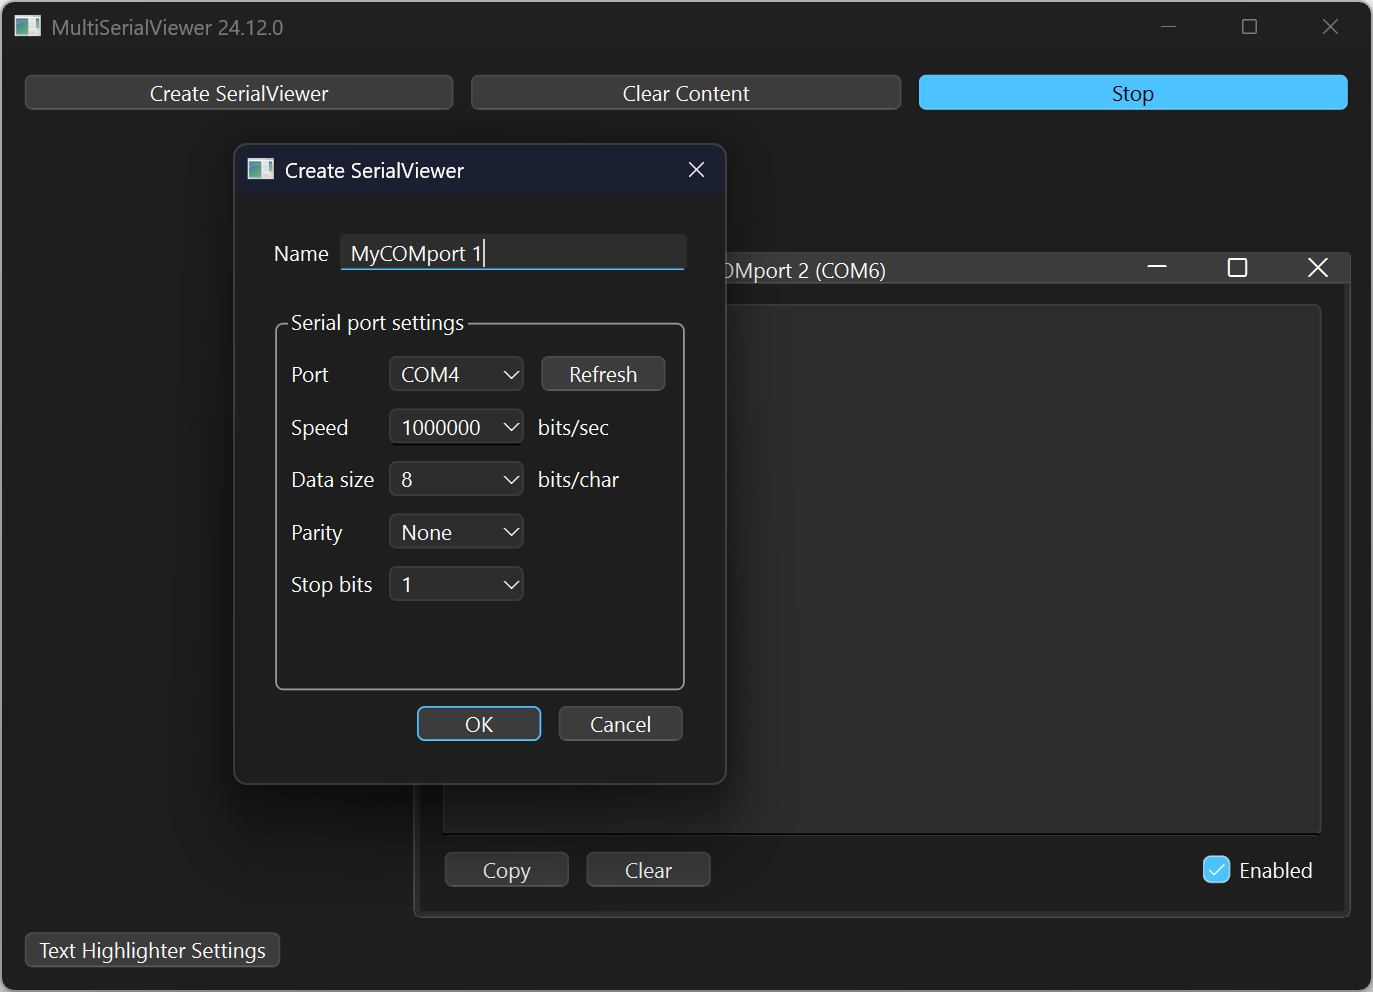
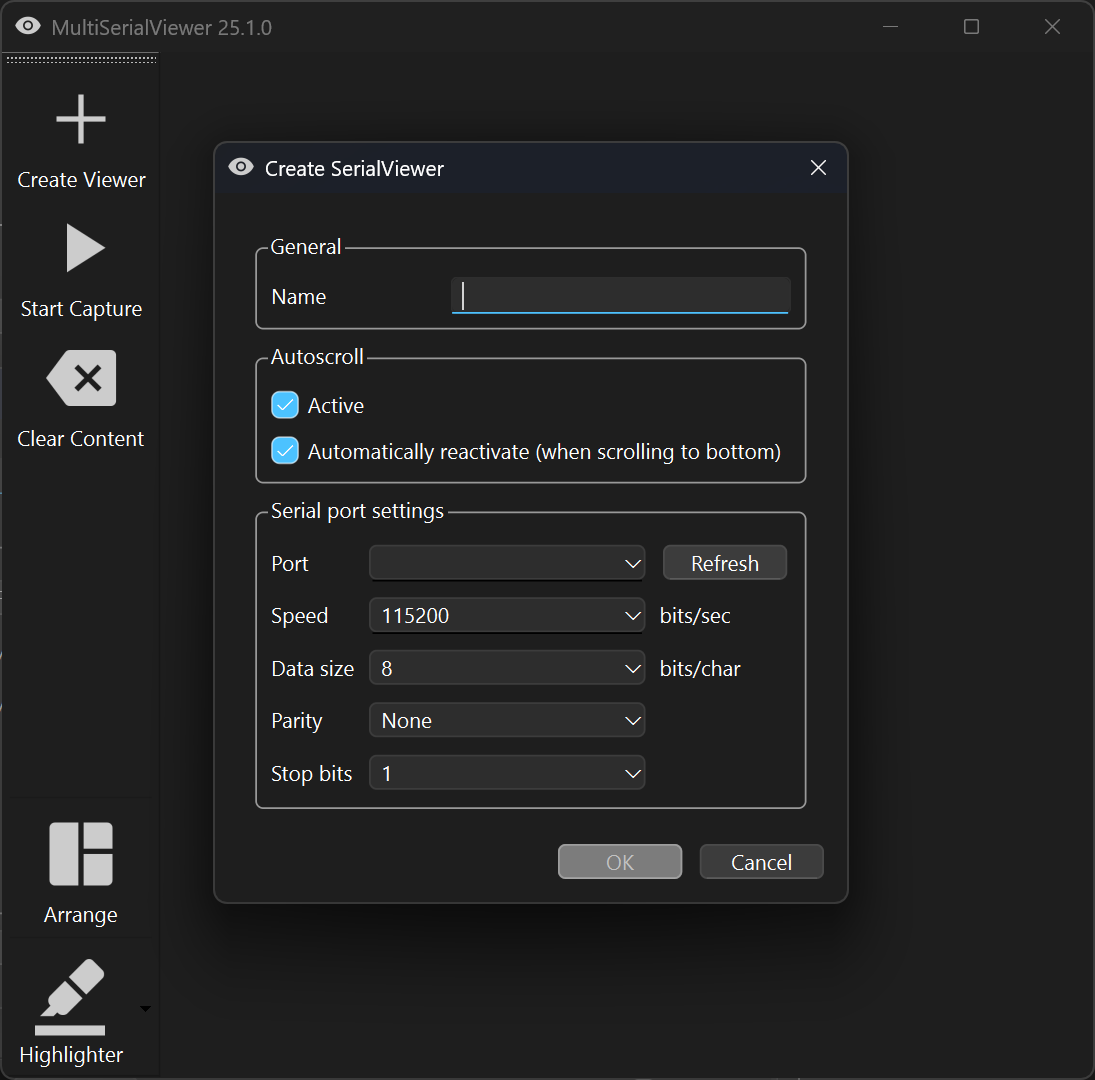
updated screenshots and readme's

diff --git a/README.md b/README.md
@@ -9,9 +9,13 @@ Shows multiple serial text streams in a single window with individual highlighti
 Imagine you have several embedded devices / MCUs all printing out debug information over a UART. You don't want to use a terminal program (e.g. HTerm) for every COM port manually. You want to easily open all COM ports at once and clear all received data with a single click. Would be nice, if important text messages could be highlighted with different colors, so you don't have to read everything your devices are telling you.
 
 ## Installation
-You can install this tool using the package installer for Python (pip). See [multiserialviewer](https://pypi.org/project/multiserialviewer/).
+You can install this tool using the package installer for Python ([pypi/multiserialviewer](https://pypi.org/project/multiserialviewer/)).
 
     pip install multiserialviewer
+
+If already installed, run the following command to install the latest version:
+
+    pip install multiserialviewer --upgrade
 
 ## Usage
 After installation using pip, you can start it by running 
@@ -20,17 +24,13 @@ After installation using pip, you can start it by running
 in a console (or by directly clicking '\Scripts\multiserialviewer.exe' in your python install directory).
 
 ### Setting up your serial/COM port connections
-Click in the top left corner on "Create SerialViewer" and enter your connection details. After you created all SerialViewers you need, start receiving your text data by clicking on "Start".
+Click in the top left corner on "Create Viewer" and enter your connection details. After you created all SerialViewers you need, start receiving your text data by clicking on "Start Capture".
 
 <img src="https://github.com/shaag7967/multiserialviewer/blob/main/doc/img/create_serial_viewer.png?raw=true" width="70%" alt="create serial viewer connection">
 
 If one of your serial ports can not be opened, you will see an error message in the corresponding SerialView window. In this case all other connections/SerialViewer will be closed again.
 
 ### Specifying text patterns for highlighting
-If you want to highlight specific text, you can define text patterns using regular expression syntax. If you just want to highlight certain words, just enter them as normal text under "Text Highlighter Settings".
+If you want to highlight specific text, you can define text patterns using regular expression syntax. If you just want to highlight certain words, enter them as normal text in the highlighter settings dialog (Highlighter).
 
 <img src="https://github.com/shaag7967/multiserialviewer/blob/main/doc/img/highlighter_settings.png?raw=true" width="60%" alt="highlighter settings">
-
-## More information
-### Configuration folder
-When closing this tool, your settings (connections, window sizes/positions and highlighter) are stored in ini/text files. You will find them in your users config folder. On windows this could be e.g. `C:\Users\youruser\AppData\Local\MultiSerialViewer`.
